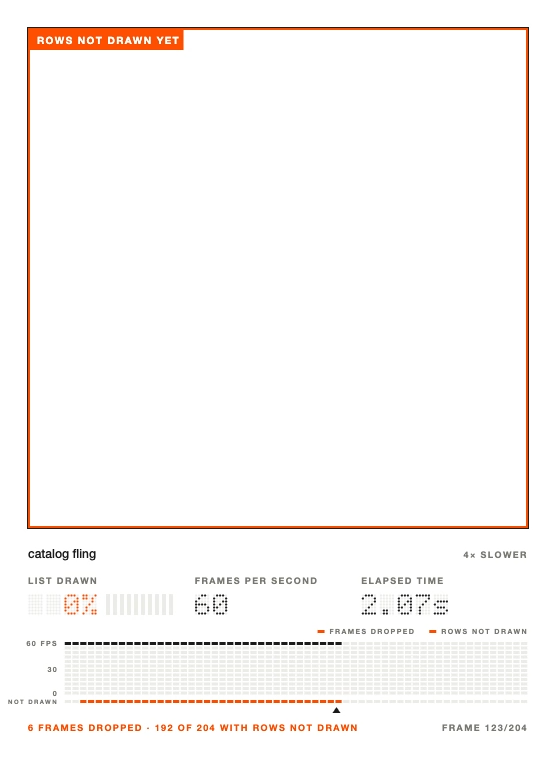
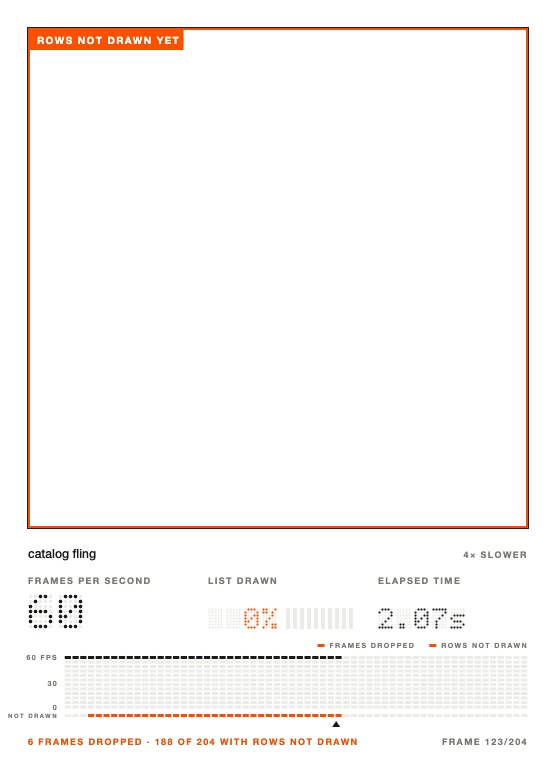
Replays lead with frames per second, in larger digits
Frames per second is the number people look for first, so it's the first
readout, set in larger dot-matrix digits, with dropped frames (or how much of
the list was drawn) and elapsed time after it on the same baseline.

diff --git a/src/replay/encode.ts b/src/replay/encode.ts
@@ -57,7 +57,7 @@ async function renderInPage(args: ReplayInput & { slowdown: number; keyEvery: nu
   const pad = 28;
   const even = (v: number) => Math.ceil(v) + (Math.ceil(v) % 2);
   const width = even(imgW + pad * 2);
-  const height = even(pad + imgH + 236);
+  const height = even(pad + imgH + 250);
   const sx = imgW / args.viewport.width;
   const sy = imgH / args.viewport.height;
   const sans = '"Helvetica Neue", Helvetica, Arial, "Liberation Sans", sans-serif';
@@ -243,43 +243,47 @@ async function renderInPage(args: ReplayInput & { slowdown: number; keyEvery: nu
     label(`${args.slowdown}× slower`, right, y, c.graphite, 'right');
 
     y += 26;
-    const col = (right - left) / 3;
+    // Readouts. Frames per second leads, larger than the rest; the others share a baseline with it.
     const fps = fpsAt(args.timesMs[i]!);
     const droppingNow = droppedBetween(args.timesMs[i]! - FPS_WINDOW_MS, args.timesMs[i]!) > 0;
     const listWentBlank = blankCount > 0;
     const droppedSoFar = droppedBetween(-1, args.timesMs[i]!);
-    label(listWentBlank ? 'List drawn' : 'Dropped frames', left, y);
-    label('Frames per second', left + col, y);
-    label('Elapsed time', left + col * 2, y);
+    const colB = left + (right - left) * 0.36;
+    const colC = left + (right - left) * 0.7;
+    const big = 5;
     const cell = 3;
+    const smallTop = y + 10 + 7 * big - 7 * cell; // bottom-aligned with the large digits
+    label('Frames per second', left, y);
+    label(listWentBlank ? 'List drawn' : 'Dropped frames', colB, y);
+    label('Elapsed time', colC, y);
+    dotText(
+      fps === null ? '  ' : String(fps).padStart(2, ' '),
+      left,
+      y + 10,
+      big,
+      droppingNow ? c.blank : c.ink,
+      c.off,
+    );
     if (listWentBlank) {
-      const endX = dotText(pct.padStart(4, ' '), left, y + 10, cell, blank ? c.blank : c.ink, c.off);
-      meter(endX + 6, y + 10, 21, drawn, blank);
+      const endX = dotText(pct.padStart(4, ' '), colB, smallTop, cell, blank ? c.blank : c.ink, c.off);
+      meter(endX + 6, smallTop, 21, drawn, blank);
     } else {
       dotText(
         String(droppedSoFar).padStart(3, ' '),
-        left,
-        y + 10,
+        colB,
+        smallTop,
         cell,
         droppedSoFar ? c.blank : c.ink,
         c.off,
       );
     }
-    dotText(
-      fps === null ? '  ' : String(fps).padStart(2, ' '),
-      left + col,
-      y + 10,
-      cell,
-      droppingNow ? c.blank : c.ink,
-      c.off,
-    );
-    dotText(secs(args.timesMs[i]!), left + col * 2, y + 10, cell, c.ink, c.off);
+    dotText(secs(args.timesMs[i]!), colC, smallTop, cell, c.ink, c.off);
 
     // LCD graph of the frame rate: a fixed grid of segments, unlit ones faintly visible. Each
     // column covers a slice of the run and lights the one segment at its frames per second, so
     // the lit segments read as a line: black at 60fps, orange below it, where frames were
     // dropped. It draws in as the replay plays. A one-row strip underneath marks slices with blank frames.
-    const top = y + 58;
+    const top = y + 72;
     const gl = left + 36; // a gutter for the graph's labels
     const xAt = (ms: number) => gl + (ms / (total || 1)) * (right - gl);
     const rows = 12;

diff --git a/docs/list-detection.md b/docs/list-detection.md
@@ -42,7 +42,7 @@ The line-counting function (`src/list/coverage.ts`) is plain code with no depend
 
 ## Replays
 
-A replay turns a measured run's screenshots into a WebM video attached to the test (`smoothness replay: <label>`). The run chosen is the one whose blank-frame share is closest to the reported median. Each frame shows the list outlined; on a blank frame the outline turns orange and a tag says **ROWS NOT DRAWN YET**, leaving the empty list visible. Underneath, a small display reads out the frame rate over the last 250ms (of the frames that had something to show, the share presented, at 60Hz; orange while frames are being dropped) and the time. When the list went blank during the run, it also reads out how much of the list was drawn, with a ten-segment meter; otherwise it counts the frames dropped so far. An LCD-style graph draws the frame rate in 60 columns as the replay plays: black at 60 frames per second, orange below it, where frames were dropped. A one-row strip underneath marks blank frames. It plays 4× slower than real time (`REPLAY_SLOWDOWN`), because at 60 frames a second a blank frame lasts 16ms.
+A replay turns a measured run's screenshots into a WebM video attached to the test (`smoothness replay: <label>`). The run chosen is the one whose blank-frame share is closest to the reported median. Each frame shows the list outlined; on a blank frame the outline turns orange and a tag says **ROWS NOT DRAWN YET**, leaving the empty list visible. Underneath, a small display leads with the frame rate over the last 250ms, in larger digits (of the frames that had something to show, the share presented, at 60Hz; orange while frames are being dropped) and the time. When the list went blank during the run, it also reads out how much of the list was drawn, with a ten-segment meter; otherwise it counts the frames dropped so far. An LCD-style graph draws the frame rate in 60 columns as the replay plays: black at 60 frames per second, orange below it, where frames were dropped. A one-row strip underneath marks blank frames. It plays 4× slower than real time (`REPLAY_SLOWDOWN`), because at 60 frames a second a blank frame lasts 16ms.
 
 ![A frame from a replay: the empty list outlined in orange and tagged ROWS NOT DRAWN YET, 0% drawn at 60 frames per second, over a frame-rate graph with frames whose rows weren't drawn marked underneath](replay-frame.png)
 
